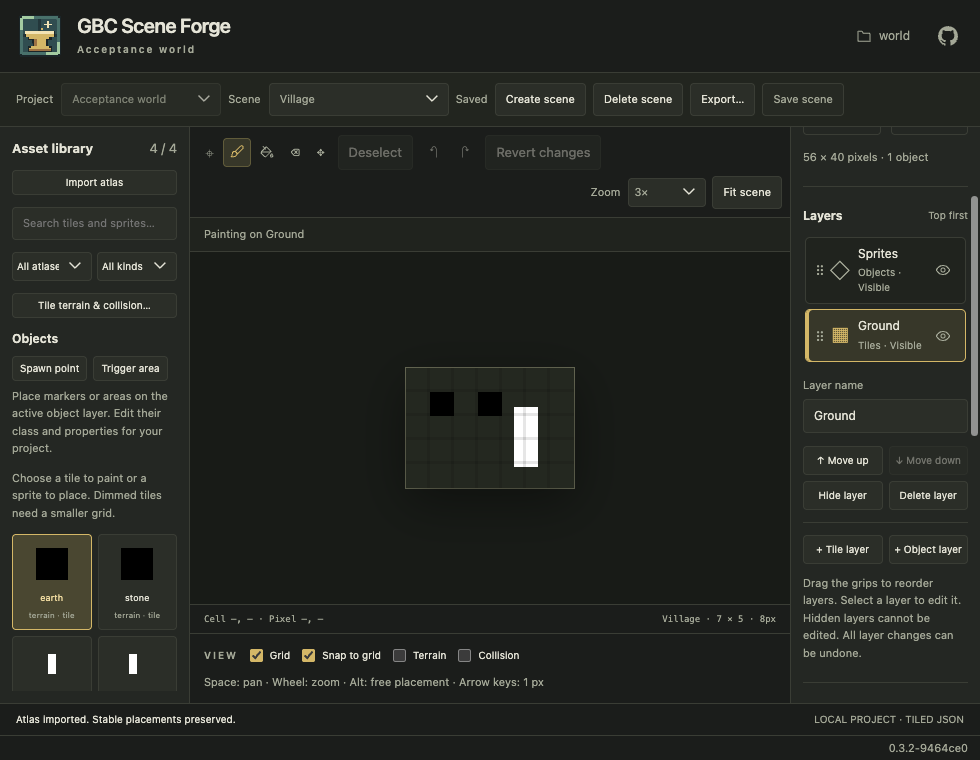
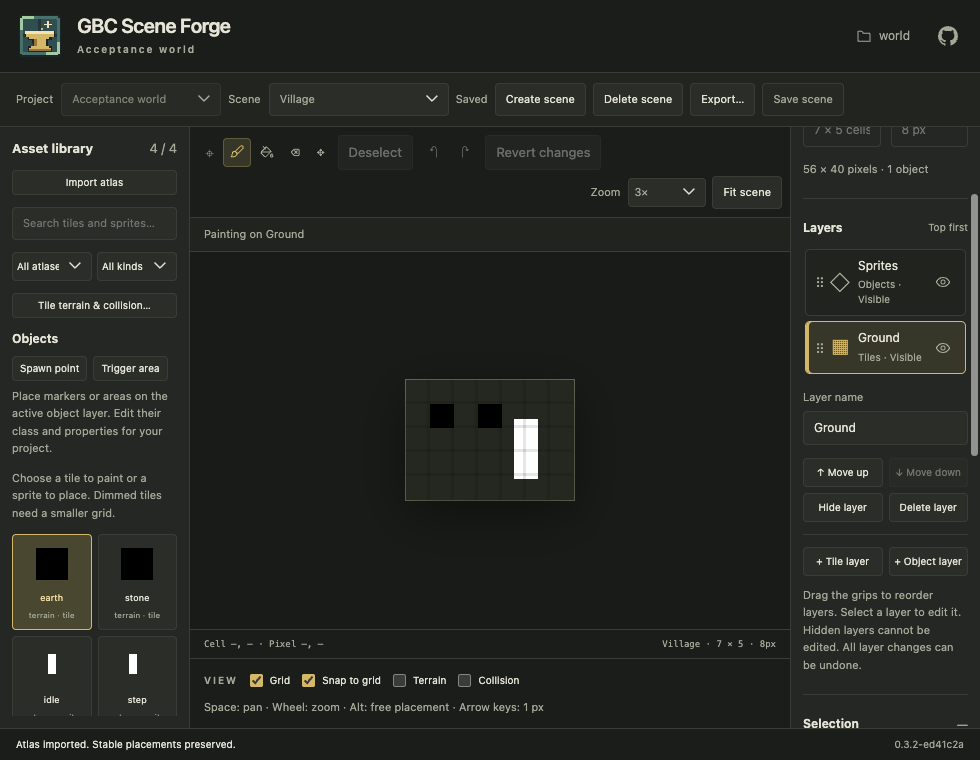
Keep the version in the status row and show it at server startup

diff --git a/tests/frontend-build.ts b/tests/frontend-build.ts
@@ -39,6 +39,7 @@ await test('esbuild bundles nested modules, emits source maps and preserves asse
       'app.js',
       'app.js.map',
       'app.meta.json',
+      'build-info.json',
       'project.js',
       'project.js.map',
     ]);
@@ -48,11 +49,23 @@ await test('esbuild bundles nested modules, emits source maps and preserves asse
     )?.[1];
     assert(version);
     assert((await readFile(join(staticDir, 'project.js'), 'utf8')).includes(`${version}-a1b2c3d`));
+    assert.equal(
+      string(
+        record(JSON.parse(await readFile(join(staticDir, 'build-info.json'), 'utf8'))).version,
+      ),
+      `${version}-a1b2c3d`,
+    );
     const production = build('production');
     assert.equal(production.status, 0, production.stdout + production.stderr);
     const releaseBundle = await readFile(join(staticDir, 'project.js'), 'utf8');
     assert(releaseBundle.includes(`versionLabel.textContent = "${version}"`));
     assert(!releaseBundle.includes(`${version}-a1b2c3d`));
+    assert.equal(
+      string(
+        record(JSON.parse(await readFile(join(staticDir, 'build-info.json'), 'utf8'))).version,
+      ),
+      version,
+    );
     assert.notEqual(build('invalid').status, 0);
     assert.notEqual(build('development', '').status, 0);
     assert.match(bundle, /nested dependency/);

diff --git a/tests/standalone-browser.ts b/tests/standalone-browser.ts
@@ -108,10 +108,17 @@ try {
     assert.equal(
       await evaluate(`(() => {
         const label = document.getElementById('app-version').getBoundingClientRect();
+        const identity = document.querySelector('.build-identity');
+        const identityBounds = identity.getBoundingClientRect();
         const content = document.querySelector('#workspace:not([hidden]), #project-start:not([hidden])').getBoundingClientRect();
         return label.width > 0 && label.left >= 0 && label.right <= innerWidth &&
           label.bottom <= innerHeight && label.bottom >= innerHeight - 12 &&
-          label.top >= content.bottom;
+          label.top >= content.bottom &&
+          identity.closest('.status-bar') !== null &&
+          identity.textContent === document.getElementById('app-version').textContent &&
+          !identity.textContent.includes('LOCAL PROJECT') &&
+          label.top >= identityBounds.top && label.bottom <= identityBounds.bottom &&
+          identityBounds.height <= parseFloat(getComputedStyle(identity).lineHeight) + 1;
       })()`),
       true,
     );

diff --git a/src/gbc_scene_forge/static/project.html b/src/gbc_scene_forge/static/project.html
@@ -168,7 +168,7 @@
       </aside>
     </main>
   </div>
-  <footer class="status-bar"><span id="status" role="status" aria-live="polite">Opening local workspace…</span><span>LOCAL PROJECT · TILED JSON</span></footer>
+  <footer class="status-bar"><span id="status" role="status" aria-live="polite">Opening local workspace…</span><span class="build-identity"><span id="app-version" aria-label="App version"></span></span></footer>
   <dialog id="export-dialog" aria-labelledby="export-heading">
     <form id="export-form">
       <h2 id="export-heading">Portable Tiled export</h2>
@@ -284,6 +284,5 @@
       <div class="dialog-actions"><button id="delete-atlas-cancel" type="button" data-close="delete-atlas-dialog">Keep atlas</button><button id="delete-atlas-confirm" class="danger">Delete atlas</button></div>
     </form>
   </dialog>
-  <footer class="build-footer"><span id="app-version" aria-label="App version"></span></footer>
 </body>
 </html>

diff --git a/src/gbc_scene_forge/static/project.css b/src/gbc_scene_forge/static/project.css
@@ -1,6 +1,8 @@
 /* Standalone uses the same design system and editor shell as connector mode. */
 .standalone {min-width:760px; height:100dvh}
-.build-footer {flex:none;width:100vw;max-width:100%;padding:3px 12px;text-align:right;color:var(--muted);font-size:11px;line-height:18px;border-top:1px solid var(--line);overflow-wrap:anywhere}
+.standalone .status-bar {width:100vw;max-width:100%;align-items:flex-end}
+.standalone #status {min-width:0;overflow-wrap:anywhere}
+.build-identity {flex:none;white-space:nowrap}
 .workspace {display:flex;flex-direction:column;flex:1;min-height:0}
 .standalone .document-bar {flex:none}
 #scenes {min-width:180px;max-width:300px}

diff --git a/frontend/build.ts b/frontend/build.ts
@@ -38,3 +38,4 @@ for (const entry of ['app', 'project']) {
     await writeFile('src/gbc_scene_forge/static/app.meta.json', JSON.stringify(result.metafile));
   }
 }
+await writeFile('src/gbc_scene_forge/static/build-info.json', JSON.stringify({ version: label }));

diff --git a/tests/test_console.py b/tests/test_console.py
@@ -11,6 +11,7 @@ from pathlib import Path
 from socket import create_connection
 from unittest.mock import patch
 
+from gbc_scene_forge.build_info import build_version
 from gbc_scene_forge.console import ServerConsole
 from gbc_scene_forge.png import decode
 from gbc_scene_forge.standalone import StandaloneServer, make_handler, make_root_handler, serve
@@ -54,13 +55,15 @@ class ConsoleTests(unittest.TestCase):
             self.assertIn(str(path), stream.getvalue())
             lines = stream.getvalue().splitlines()
             editor_line = next(index for index, line in enumerate(lines) if "Editor" in line)
-            self.assertIn("Project Root", lines[editor_line + 1])
-            self.assertIn(str(Path(folder) / "projects"), lines[editor_line + 1])
+            self.assertIn("Version", lines[editor_line + 1])
+            self.assertIn(build_version(), lines[editor_line + 1])
+            self.assertIn("Project Root", lines[editor_line + 2])
+            self.assertIn(str(Path(folder) / "projects"), lines[editor_line + 2])
             self.assertIn("Failures 2", stream.getvalue())
             self.assertNotIn("GET /", stream.getvalue())
             self.assertNotIn("New client", stream.getvalue())
             self.assertNotIn("\033", stream.getvalue() + log)
-            self.assertLess(len(stream.getvalue().splitlines()), 20)
+            self.assertLess(len(stream.getvalue().splitlines()), 22)
 
     def make_console(self, stream, **kwargs):
         self.activity = io.StringIO()
@@ -114,7 +117,7 @@ class ConsoleTests(unittest.TestCase):
                 now[0] = 120
                 console.expire()
                 self.assertIn("0 active", current_total())
-                self.assertEqual(stream.getvalue().count("\n"), 4)
+                self.assertEqual(stream.getvalue().count("\n"), 5)
                 self.assertNotIn("GET /", stream.getvalue())
                 self.assertNotIn("New client", stream.getvalue())
                 self.assertIn(

diff --git a/tests/package_smoke.py b/tests/package_smoke.py
@@ -9,6 +9,8 @@ from importlib.resources import files
 from pathlib import Path
 
 from gbc_scene_forge import __version__, standalone
+from gbc_scene_forge.build_info import build_version
+from gbc_scene_forge.console import ServerConsole
 from gbc_scene_forge.projects import Project
 from gbc_scene_forge.sample import prepare
 from gbc_scene_forge.workspaces import ProjectRoot
@@ -34,6 +36,7 @@ class InstalledPackageSmokeTests(unittest.TestCase):
             "project.css",
             "project.js",
             "project.js.map",
+            "build-info.json",
             "branding/logo-64.png",
             "branding/favicon-32.png",
             "branding/favicon-16.png",
@@ -41,6 +44,12 @@ class InstalledPackageSmokeTests(unittest.TestCase):
         ):
             with self.subTest(asset=name):
                 self.assertTrue(static.joinpath(name).read_bytes())
+        version = build_version()
+        self.assertRegex(version, rf"^{__version__}(?:-[0-9a-f]{{7,40}})?$")
+        self.assertIn(f'"{version}"', static.joinpath("project.js").read_text())
+        stream = io.StringIO()
+        ServerConsole(stream).start(8765)
+        self.assertIn(f"  {'Version':<14}{version}", stream.getvalue())
 
     def test_sample_project_loads(self):
         with tempfile.TemporaryDirectory() as folder:

diff --git a/src/gbc_scene_forge/console.py b/src/gbc_scene_forge/console.py
@@ -7,6 +7,8 @@ import sys
 import time
 from threading import Lock
 
+from .build_info import build_version
+
 CLIENT_TIMEOUT = 120
 
 
@@ -58,6 +60,7 @@ class ServerConsole:
             self.write("Scene Forge")
             self.write(f"  {'Status':<14}" + self.highlight("online", "32"))
             self.write(f"  {'Editor':<14}" + self.highlight(f"http://127.0.0.1:{port}/", "36"))
+            self.write(f"  {'Version':<14}" + build_version())
             if project_root is not None:
                 self.write(f"  {'Project Root':<14}" + json.dumps(str(project_root)))
             if self.log_path is not None:

diff --git a/src/gbc_scene_forge/build_info.py b/src/gbc_scene_forge/build_info.py
@@ -1,0 +1,15 @@
+"""Read the identity embedded alongside the browser assets at build time."""
+
+import json
+from importlib.resources import files
+
+from . import __version__
+
+
+def build_version():
+    try:
+        metadata = files("gbc_scene_forge").joinpath("static/build-info.json").read_text()
+    except FileNotFoundError:
+        # Source-only Python use before the first frontend build.
+        return __version__
+    return json.loads(metadata)["version"]

diff --git a/docs/RELEASING.md b/docs/RELEASING.md
@@ -56,7 +56,10 @@ The browser suite can also be run locally; see the README.
 
 `npm run build` (also used by `make frontend`, `make run`, `make demo` and
 `make build`) reads the app version from `pyproject.toml` and embeds it in the
-browser bundle. By default, `FORGE_BUILD_MODE=development`: the bottom-right
+browser bundle and `static/build-info.json`. The server reads that same metadata
+to print its version above Project Root at startup. Source-only Python runs
+before a frontend build fall back to the Python package version.
+By default, `FORGE_BUILD_MODE=development`: the bottom-right
 label shows `VERSION-COMMIT`, using `git rev-parse --short=7 HEAD` at build time.
 Set `FORGE_BUILD_COMMIT` to a 7–40 character hexadecimal Git commit identifier
 when building development assets without a Git checkout. Missing Git metadata
